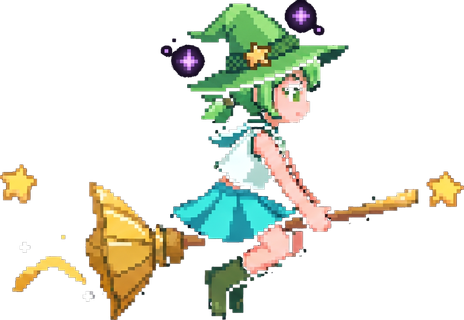
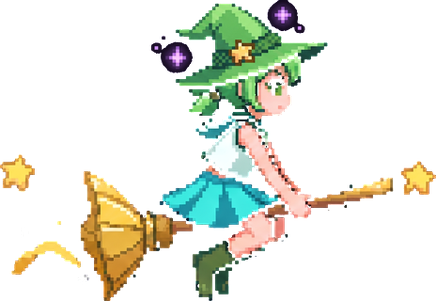
fix: 跑酷立绘缩小对齐Boss战尺寸+碰撞箱同步调整+抠图毛边清理
1) Player.js跑酷立绘展示高度从50px降到32px，与BossScene的30px基本一致，避免跑酷时立绘过大在窄轨道内视觉穿模(伸进相邻障碍/轨道)。2) config.js碰撞箱playerW 16→20、playerH 22→28，随立绘缩小同步放大判定框，让实际判定范围更贴近新的视觉体型，减少'看起来贴到了但没判定'的违和感。3) 离线重新处理12张立绘：按alpha反预乘还原半透明边缘真实颜色+收紧alpha阈值，消除黑底抠图残留的暗色/杂色毛边；再用连通域检测量出人物+扫帚主体高度，同一形态阶段下三名角色统一缩放到该阶段最小主体高度，修正之前haiyu系列主体占比偏小(93%~96%)导致的三人视觉大小不一致问题。

diff --git a/src/systems/Player.js b/src/systems/Player.js
@@ -142,10 +142,11 @@ if (f.hat) {
     }
   }
 
-  // 画角色立绘：碰撞框仅 16x22px，立绘是骑扫帚横向飞行构图（已离线裁边贴合内容），
+  // 画角色立绘：立绘是骑扫帚横向飞行构图（已离线裁边贴合内容+统一同阶段三人体型），
   // 按固定展示高度等比缩放，扫帚/脚部贴齐碰撞框底部（=贴近赛道），左右居中。
+  // 展示高度调到与 Boss 战立绘（30px）基本一致，避免跑酷时立绘过大导致视觉穿模。
   _drawSprite(ctx, sprite, px, py, w, h) {
-    const drawH = 50; // 立绘展示高度，觉得太大/太小可以直接改这个数
+    const drawH = 32; // 立绘展示高度，觉得太大/太小可以直接改这个数
     const drawW = (sprite.width / sprite.height) * drawH;
     const dx = Math.round(px + w / 2 - drawW / 2);
     const dy = Math.round(py + h - drawH);

diff --git a/src/data/config.js b/src/data/config.js
@@ -5,8 +5,8 @@ export const CONFIG = {
   laneTopY: [104, 176],  // 玩家在 [上轨, 下轨] 的 y（顶部坐标）
   laneMidY: 140,         // 上下轨中间线（稀有金色六芒星漂浮位置，玩家切轨路径经过）
   playerX: 96,
-  playerW: 16,
-  playerH: 22,
+  playerW: 20,   // 立绘缩小到与Boss战接近的尺寸后，碰撞箱同步放大一些，让判定范围更贴近视觉体型（原16，视觉与判定过于悬殊）
+  playerH: 28,   // 原22，同上
 
   // 速度与难度
   startSpeed: 140,       // 初始滚动速度 px/s
